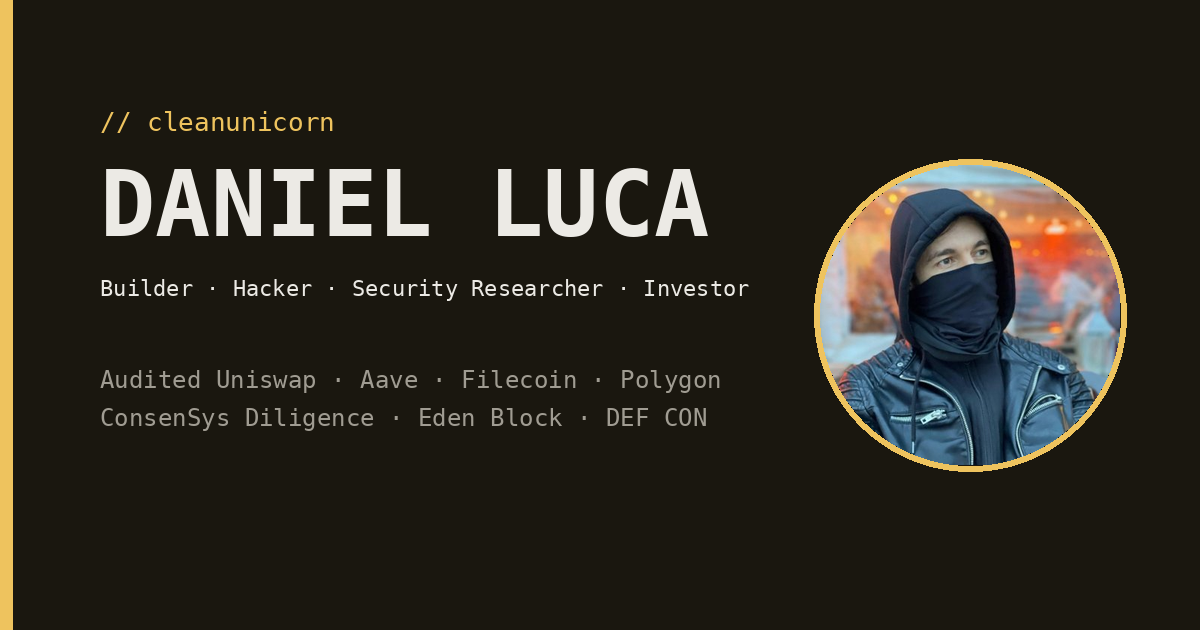
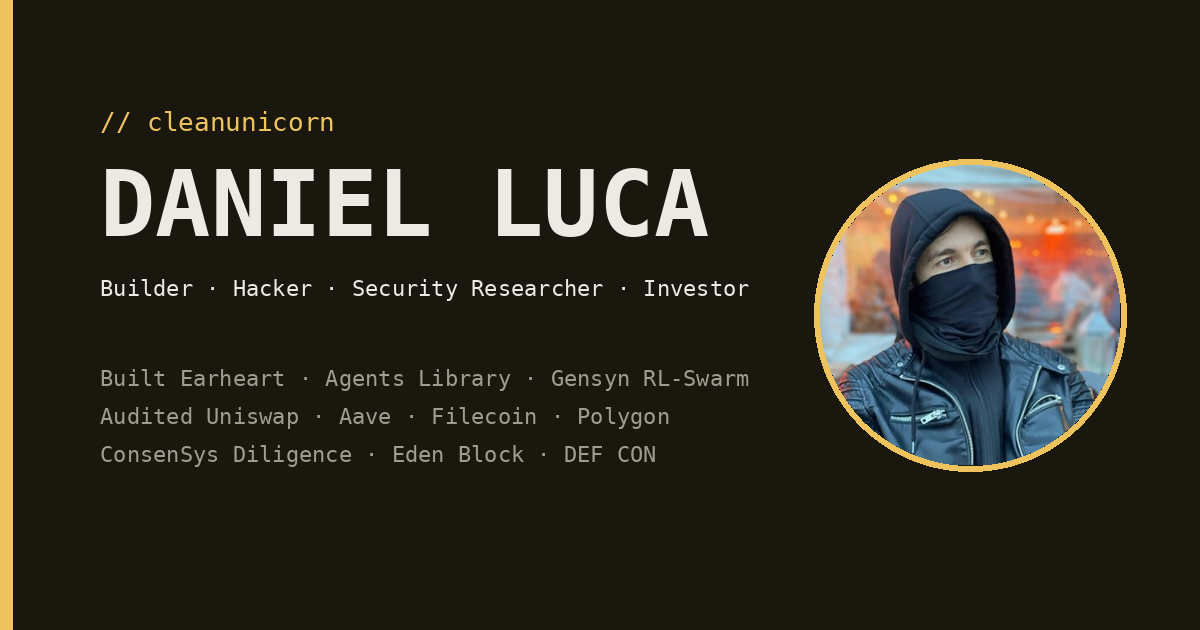
feat(og): show what I built on the social card, not only what I audited
The card's role line leads "Builder · Hacker" since d448b92, but its evidence
block underneath still listed only audits and firms — so the one surface most
people see says builder and then proves auditor.

It now opens on a "Built" line, mirroring the proof strip on the homepage: the
same three names data/home.toml:22-24 added, under the same verb its label
uses. Every word on the card comes from that list; nothing is invented and
nothing was dropped to make room — the audits and firms keep their lines, and
fit_font sizes the three to the column.

Card regenerated from the script in the same commit, opened and read: the
portrait, ring, accent bar, eyebrow and name are unchanged.

Changed region(s): [[0.0617, 0.573, 0.6167, 0.754]]

diff --git a/scripts/generate_og_image.py b/scripts/generate_og_image.py
@@ -98,7 +98,10 @@ def main() -> None:
     sub_text = "Builder · Hacker · Security Researcher · Investor"
     f_sub = fit_font(draw, sub_text, "regular", 34, avail)
 
+    # Mirrors data/home.toml's proof strip: its label is "Built · Audited ·
+    # Featured" and its items are exactly the names below.
     proof_lines = [
+        "Built Earheart · Agents Library · Gensyn RL-Swarm",
         "Audited Uniswap · Aave · Filecoin · Polygon",
         "ConsenSys Diligence · Eden Block · DEF CON",
     ]
